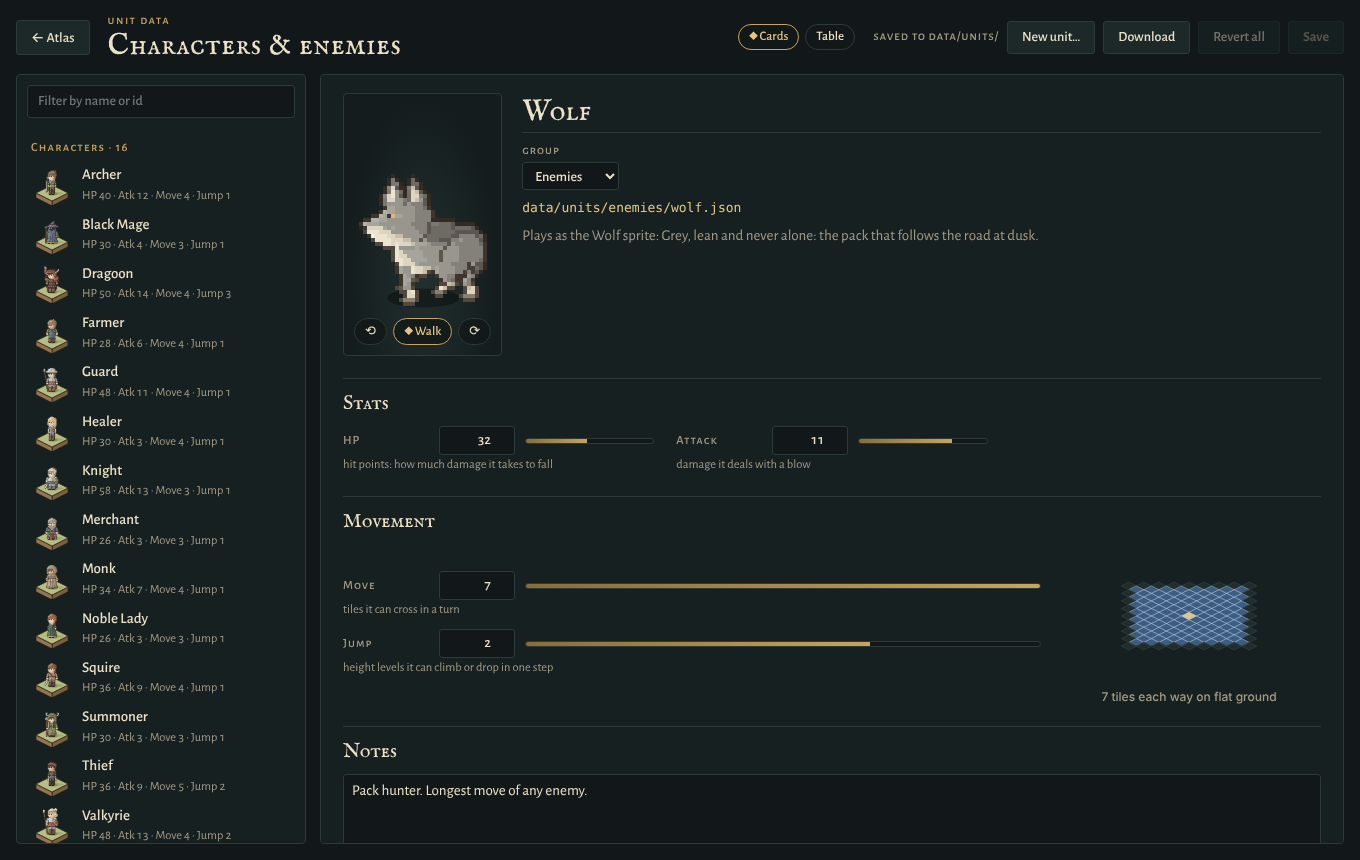
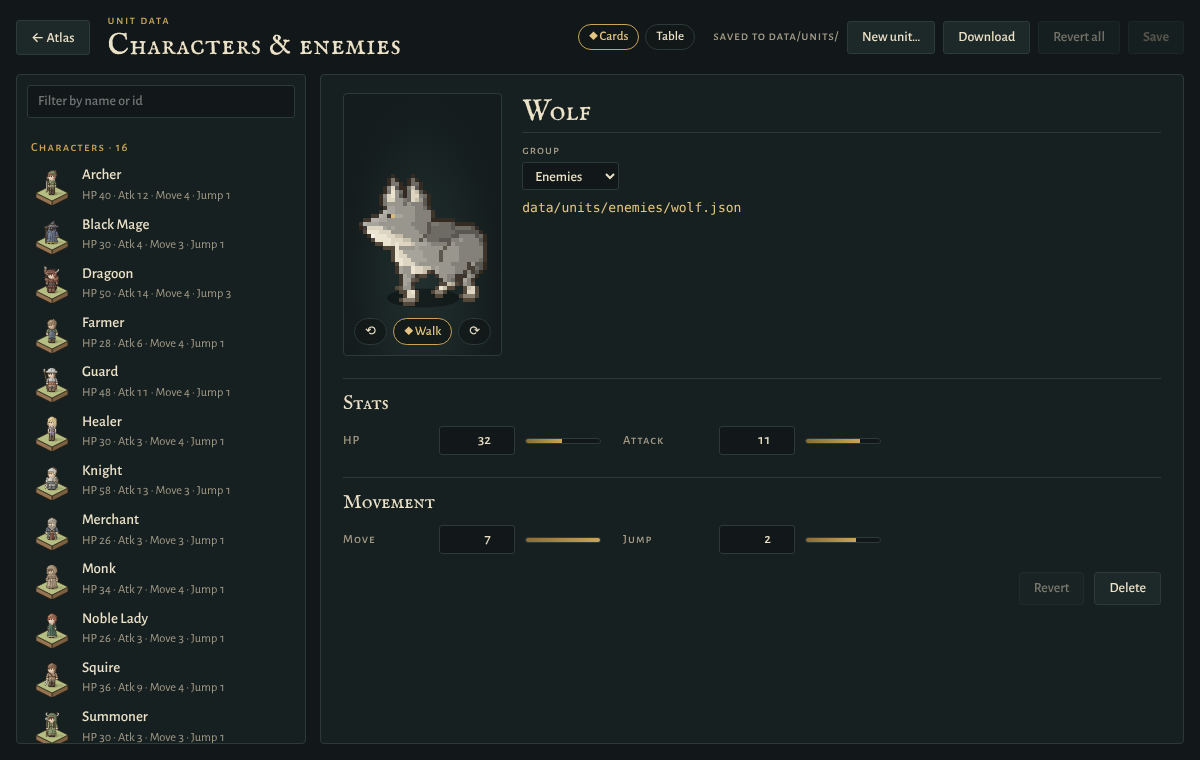
Unit data: drop notes and descriptive text for a simpler page
Claude-Session: https://claude.ai/code/session_015PvqJpEqEmM6sBoz5SncCe

diff --git a/src/units/main.js b/src/units/main.js
@@ -10,7 +10,7 @@ import { H as FH, W as FW } from '../characters/pixels.js';
 
 /* ================= the unit data page =================
    Every unit in data/units/ (src/data/units.js) to read and change: a list down the side, a card per unit with its
-   sprite walking, its HP and Attack, its movement and notes, and a table of everyone for balancing numbers side by
+   sprite walking, its HP, Attack, Move and Jump, and a table of everyone for balancing numbers side by
    side. Changes are drafts until saved. On the dev server Save writes the files through the Hexwright bridge
    (tools/vite-hexwright.js), and the tactical view in any open tab picks the new numbers up at once; a built copy
    of the site can read the units and download a unit's file, but not save. */
@@ -84,14 +84,13 @@ function renderList() {
 }
 
 /* ---------- the card ---------- */
-function field(sec, [k, label, lo, hi, , what], e) {
+function field(sec, [k, label, lo, hi], e) {
   const v = sec ? e.draft[sec][k] : e.draft[k], max = sec ? rosterMax(sec, k) : 0, saved = e.saved && (sec ? e.saved[sec]?.[k] : e.saved[k]);
   const changed = e.saved && saved !== v;
-  return `<label class="ub-stat${changed ? ' changed' : ''}" title="${esc(what)}">
+  return `<label class="ub-stat${changed ? ' changed' : ''}"${changed ? ` title="saved: ${saved}"` : ''}>
     <span class="ub-stat-name">${esc(label)}</span>
     <input type="number" inputmode="numeric" min="${lo}" max="${hi}" step="1" value="${v}" data-sec="${sec}" data-k="${k}" aria-label="${esc(label)}">
     ${sec ? `<span class="ub-meter" aria-hidden="true"><i style="width:${Math.round(100 * Math.min(1, v / max))}%"></i></span>` : ''}
-    <span class="ub-stat-what">${esc(what)}${changed ? ` <em>was ${saved}</em>` : ''}</span>
   </label>`;
 }
 function renderDetail() {
@@ -115,18 +114,15 @@ function renderDetail() {
           <label class="ub-field"><span>group</span><select id="group">${GROUPS.map(g => `<option value="${g}"${g === e.group ? ' selected' : ''}>${GROUP_LABEL[g]}</option>`).join('')}</select></label>
         </div>
         <p class="ub-file"><code>${esc(unitPath(e.group, d.id))}</code>${!e.saved ? ' <span class="ub-tag">new</span>' : isDirty(e) ? ' <span class="ub-tag">unsaved</span>' : ''}</p>
-        <p class="ub-dim">${sprite ? `Plays as the ${esc(sprite.name)} sprite${sprite.blurb ? `: ${esc(sprite.blurb)}` : '.'}` : `No sprite called “${esc(d.id)}” is in the roster or the character library, so nothing on a map uses these numbers yet.`}</p>
+        ${sprite ? '' : `<p class="ub-dim">No sprite called “${esc(d.id)}”.</p>`}
         ${errs.length ? `<p class="ub-errors">${errs.map(esc).join('<br>')}</p>` : ''}
       </div>
     </div>
     ${SECTIONS.map(sec => `
       <section class="ub-sec"><h2>${SECTION_LABEL[sec]}</h2>
-        ${sec === 'movement' ? `<div class="ub-move"><div class="ub-stats">${FIELDS[sec].map(f => field(sec, f, e)).join('')}</div><canvas id="reach" width="264" height="160" aria-label="Tiles reachable on flat ground"></canvas></div>`
-    : `<div class="ub-stats">${FIELDS[sec].map(f => field(sec, f, e)).join('')}</div>`}
+        <div class="ub-stats">${FIELDS[sec].map(f => field(sec, f, e)).join('')}</div>
       </section>`).join('')}
-    <section class="ub-sec"><h2>Notes</h2><textarea id="notes" rows="3" maxlength="2000" placeholder="Tactics, weaknesses, where it turns up…">${esc(d.notes)}</textarea></section>
     <div class="ub-card-actions">
-      <details class="ub-json"><summary>File contents</summary><pre id="json">${esc(unitText(d, e.group))}</pre></details>
       <span class="ub-spacer"></span>
       <button class="btn" id="revertOne"${isDirty(e) && e.saved ? '' : ' disabled'}>Revert</button>
       <button class="btn ub-danger" id="deleteOne">Delete</button>
@@ -137,7 +133,6 @@ function renderDetail() {
     commit(e);
   }));
   $('name').addEventListener('change', () => { e.draft.name = $('name').value; commit(e); });
-  $('notes').addEventListener('change', () => { e.draft.notes = $('notes').value; commit(e); });
   $('group').addEventListener('change', () => { e.group = $('group').value; commit(e); });
   $('faceL').addEventListener('click', () => { V.face = (V.face + 3) % 4; });
   $('faceR').addEventListener('click', () => { V.face = (V.face + 1) % 4; });
@@ -145,7 +140,6 @@ function renderDetail() {
   $('revertOne').addEventListener('click', () => revert(e));
   $('deleteOne').addEventListener('click', () => remove(V.sel));
   if (sprite) startPreview(sprite); else $('preview').classList.add('ub-blank');
-  if ($('reach')) drawReach($('reach'), d.movement.move);
 }
 /* clamp what was typed into range, then redraw everything that shows it */
 function commit(e) { e.draft = normalizeUnit(e.draft); renderAll(); }
@@ -168,23 +162,6 @@ function startPreview(c) {
   anim = requestAnimationFrame(step);
 }
 function stopPreview() { if (anim) cancelAnimationFrame(anim); anim = 0; }
-/* the tiles a move reaches on open flat ground: a diamond of tiles within that many steps, drawn as the map does */
-function drawReach(can, move) {
-  const g = can.getContext('2d'), R = Math.max(4, move + 1), tw = (can.width - 8) / (2 * R + 1), th = tw / 2, cx = can.width / 2, cy = (can.height - 16) / 2;
-  g.clearRect(0, 0, can.width, can.height);
-  const tile = (i, j, fill, stroke) => {
-    const x = cx + (i - j) * tw / 2, y = cy + (i + j) * th / 2;
-    g.beginPath(); g.moveTo(x, y - th / 2); g.lineTo(x + tw / 2, y); g.lineTo(x, y + th / 2); g.lineTo(x - tw / 2, y); g.closePath();
-    g.fillStyle = fill; g.fill(); g.strokeStyle = stroke; g.lineWidth = 1; g.stroke();
-  };
-  for (let j = -R; j <= R; j++) for (let i = -R; i <= R; i++) {
-    const d = Math.abs(i) + Math.abs(j); if (d > R) continue;
-    tile(i, j, d === 0 ? '#e4c684' : d <= move ? 'rgba(93,143,208,.55)' : 'rgba(44,58,58,.5)', d <= move ? '#cfe2ff55' : '#2c3a3a');
-  }
-  g.fillStyle = '#a39b86'; g.font = '500 12px "Alegreya Sans", system-ui, sans-serif'; g.textAlign = 'center';
-  g.fillText(`${move} tile${move === 1 ? '' : 's'} each way on flat ground`, can.width / 2, can.height - 3);
-}
-
 /* ---------- the table ---------- */
 const COLS = [['name', 'Name'], ['group', 'Group'], ...SECTIONS.flatMap(sec => FIELDS[sec].map(([k, l]) => [`${sec}.${k}`, l]))];
 const LIMITS = Object.fromEntries(SECTIONS.flatMap(sec => FIELDS[sec].map(([k, , lo, hi]) => [`${sec}.${k}`, [lo, hi]])));
@@ -207,7 +184,7 @@ function renderTable() {
     return `<td class="${changed.trim()}"><input type="number" inputmode="numeric" min="${lo}" max="${hi}" step="1" value="${v}" data-k="${k}" aria-label="${esc(k)} of ${esc(nameOf(e))}"></td>`;
   }).join('')}</tr>`).join('');
   box.innerHTML = `<div class="ub-table-scroll"><table><thead><tr>${head}</tr></thead><tbody>${body}</tbody></table></div>
-    <p class="ub-dim ub-table-hint">Click a column to sort, a name to open its card. Brass cells differ from the saved file.</p>`;
+`;
   box.querySelectorAll('[data-sort]').forEach(b => b.addEventListener('click', () => { const k = b.dataset.sort; V.sort = V.sort.key === k ? { key: k, dir: -V.sort.dir } : { key: k, dir: 1 }; renderTable(); }));
   box.querySelectorAll('[data-open]').forEach(b => b.addEventListener('click', () => { V.sel = b.dataset.open; setView('cards'); }));
   box.querySelectorAll('tbody input, tbody select').forEach(inp => inp.addEventListener('change', () => {
@@ -277,7 +254,7 @@ $('newDialog').addEventListener('close', () => {
   if ($('newDialog').returnValue !== 'ok') return;
   const id = $('newSprite').value, group = $('newGroup').value, from = E.get($('newFrom').value), c = spriteOf(id);
   const base = from ? structuredClone(from.draft) : structuredClone({ ...DEFAULT_UNIT, stats: { ...DEFAULT_UNIT.stats }, movement: { ...DEFAULT_UNIT.movement } });
-  const draft = { ...normalizeUnit({ ...base, id, name: c?.name || id, notes: from ? base.notes : '' }, group) };
+  const draft = normalizeUnit({ ...base, id, name: c?.name || id });
   E.set(id, { group, draft, saved: null, savedGroup: null }); V.sel = id; setView('cards');
 });
 

diff --git a/src/units/units.css b/src/units/units.css
@@ -19,7 +19,7 @@
 .ub-list,.ub-detail,.ub-table{min-height:0;background:var(--panel);border:1px solid var(--line);border-radius:4px}
 .ub-list{display:flex;flex-direction:column;overflow:hidden}
 .ub-search{margin:10px;background:var(--table);border:1px solid var(--line);color:var(--vellum);font:500 14px var(--ui);padding:7px 10px;border-radius:3px}
-.ub-search:focus-visible,.ub-detail input:focus-visible,.ub-detail select:focus-visible,.ub-detail textarea:focus-visible,.ub-table input:focus-visible,.ub-table select:focus-visible,.ub-row:focus-visible{outline:2px solid var(--brass-2);outline-offset:1px}
+.ub-search:focus-visible,.ub-detail input:focus-visible,.ub-detail select:focus-visible,.ub-table input:focus-visible,.ub-table select:focus-visible,.ub-row:focus-visible{outline:2px solid var(--brass-2);outline-offset:1px}
 .ub-rows{overflow:auto;padding:0 6px 10px}
 .ub-group{margin:12px 8px 4px;font:500 12.5px var(--ui-sc);letter-spacing:.1em;color:var(--brass)}
 .ub-row{display:flex;align-items:center;gap:10px;width:100%;text-align:left;background:none;border:1px solid transparent;border-radius:3px;padding:3px 8px;color:var(--vellum);cursor:pointer;font:inherit}
@@ -46,7 +46,7 @@
 .ub-meta{display:flex;flex-wrap:wrap;gap:12px 20px;align-items:end}
 .ub-field{display:flex;flex-direction:column;gap:3px}
 .ub-field span,.ub-stat-name{font:500 12.5px var(--ui-sc);letter-spacing:.08em;color:var(--muted)}
-.ub select,.ub input[type=number],.ub textarea{background:var(--table);border:1px solid var(--line);color:var(--vellum);font:500 14px var(--ui);padding:5px 8px;border-radius:3px}
+.ub select,.ub input[type=number]{background:var(--table);border:1px solid var(--line);color:var(--vellum);font:500 14px var(--ui);padding:5px 8px;border-radius:3px}
 .ub input[type=number]{font-variant-numeric:tabular-nums;text-align:right}
 .ub-file{margin:0;display:flex;flex-wrap:wrap;gap:8px;align-items:center}
 .ub-file code{font:13px ui-monospace,SFMono-Regular,Menlo,monospace;color:var(--brass-2);word-break:break-all}
@@ -56,21 +56,13 @@
 .ub-sec{margin-top:22px;border-top:1px solid var(--line);padding-top:12px}
 .ub-sec h2{margin:0 0 10px;font:400 20px var(--display);color:var(--vellum)}
 .ub-stats{display:grid;grid-template-columns:repeat(auto-fill,minmax(250px,1fr));gap:10px 22px}
-.ub-stat{display:grid;grid-template-columns:86px 76px minmax(0,1fr);grid-template-rows:auto auto;gap:2px 10px;align-items:center}
+.ub-stat{display:grid;grid-template-columns:86px 76px minmax(0,1fr);gap:10px;align-items:center}
 .ub-stat input{width:100%}
 .ub-meter{height:6px;background:var(--table);border:1px solid var(--line);border-radius:3px;overflow:hidden}
 .ub-meter i{display:block;height:100%;background:linear-gradient(90deg,#8a6d36,var(--brass))}
-.ub-stat-what{grid-column:1 / -1;font-size:12.5px;color:var(--muted);line-height:1.35}
-.ub-stat-what em{font-style:normal;color:var(--brass-2)}
 .ub-stat.changed input{border-color:var(--brass)}
-.ub-move{display:grid;grid-template-columns:minmax(0,1fr) auto;gap:16px;align-items:center}
-.ub-move .ub-stats{grid-template-columns:minmax(0,1fr)}
-#reach{display:block;max-width:100%;height:auto}
-.ub-detail textarea{width:100%;resize:vertical;font:400 15px/1.45 var(--ui)}
 .ub-card-actions{display:flex;flex-wrap:wrap;gap:10px;align-items:start;margin-top:18px}
 .ub-spacer{flex:1}
-.ub-json summary{cursor:pointer;color:var(--muted);font:500 13px var(--ui-sc);letter-spacing:.06em;padding:8px 0}
-.ub-json pre{margin:4px 0 0;max-height:280px;overflow:auto;background:var(--table);border:1px solid var(--line);border-radius:3px;padding:10px 12px;font:12.5px/1.45 ui-monospace,SFMono-Regular,Menlo,monospace;color:var(--vellum)}
 
 .ub-table{display:flex;flex-direction:column;overflow:hidden}
 .ub-table-scroll{overflow:auto;min-height:0;flex:1}
@@ -90,7 +82,6 @@
 .ub-table td.na{color:var(--line);text-align:center}
 .ub-open{background:none;border:0;color:var(--vellum);font:500 15px var(--ui);cursor:pointer;padding:4px 6px}
 .ub-open:hover{color:var(--brass-2);text-decoration:underline}
-.ub-table-hint{padding:8px 12px;font-size:13px;border-top:1px solid var(--line)}
 
 .ub-toast{position:fixed;left:50%;bottom:22px;transform:translateX(-50%);max-width:min(560px,calc(100vw - 32px));background:var(--panel-2);border:1px solid var(--brass);color:var(--vellum);padding:8px 14px;border-radius:3px;box-shadow:0 8px 24px rgba(0,0,0,.45);font-size:14px}
 .ub-toast.bad{border-color:var(--wax);color:#f0b2a8}
@@ -106,7 +97,6 @@
   .ub-list{max-height:240px}
   .ub-hero{grid-template-columns:minmax(0,1fr)}
   .ub-stage{justify-self:center}
-  .ub-move{grid-template-columns:minmax(0,1fr)}
   .ub-detail{padding:14px}
   .ub-table{max-height:75vh}
 }

diff --git a/src/data/units.js b/src/data/units.js
@@ -4,7 +4,7 @@
    in characters/ or enemies/, named by its id, which is the id of the sprite it plays as:
 
      data/units/enemies/goblin.json
-     { "id": "goblin", "name": "Goblin", "stats": { "hp": 22, "attack": 7 }, "movement": { "move": 5, "jump": 2 }, "notes": "" }
+     { "id": "goblin", "name": "Goblin", "stats": { "hp": 22, "attack": 7 }, "movement": { "move": 5, "jump": 2 } }
 
    Pure (no DOM, no Vite), so Node tools, tests and the browser share it. In the browser data/unit-files.js loads
    the files into the registry below; on the dev server the unit data page (units.html) writes them back through
@@ -12,21 +12,20 @@
    DEFAULT_UNIT. */
 const GROUPS = ['characters', 'enemies'];
 const GROUP_LABEL = { characters: 'Characters', enemies: 'Enemies' };
-/* every number a unit has, by section: [key, label, min, max, default, what it means] */
+/* every number a unit has, by section: [key, label, min, max, default] */
 const FIELDS = {
   stats: [
-    ['hp', 'HP', 1, 999, 30, 'hit points: how much damage it takes to fall'],
-    ['attack', 'Attack', 0, 99, 8, 'damage it deals with a blow']],
+    ['hp', 'HP', 1, 999, 30],
+    ['attack', 'Attack', 0, 99, 8]],
   movement: [
-    ['move', 'Move', 1, 12, 5, 'tiles it can cross in a turn'],
-    ['jump', 'Jump', 0, 6, 1, 'height levels it can climb or drop in one step']] };
+    ['move', 'Move', 1, 12, 5],
+    ['jump', 'Jump', 0, 6, 1]] };
 const SECTIONS = Object.keys(FIELDS);
 const ID_RE = /^[a-z0-9][a-z0-9-]{0,47}$/;
-const NOTES_MAX = 2000;
 
 const clampInt = (v, lo, hi, def) => { const n = Math.round(Number(v)); return Number.isFinite(n) ? Math.max(lo, Math.min(hi, n)) : def; };
 const defaults = sec => Object.fromEntries(FIELDS[sec].map(([k, , , , d]) => [k, d]));
-const DEFAULT_UNIT = Object.freeze({ id: '', name: '', stats: Object.freeze(defaults('stats')), movement: Object.freeze(defaults('movement')), notes: '' });
+const DEFAULT_UNIT = Object.freeze({ id: '', name: '', stats: Object.freeze(defaults('stats')), movement: Object.freeze(defaults('movement')) });
 
 /* a unit in canonical form: known fields only, in a fixed order, every number a whole number within its range
    and anything missing filled from the defaults. Characters and enemies have the same fields. */
@@ -37,7 +36,6 @@ function normalizeUnit(raw) {
     const src = J[sec] && typeof J[sec] === 'object' ? J[sec] : {};
     out[sec] = Object.fromEntries(FIELDS[sec].map(([k, , lo, hi, d]) => [k, clampInt(src[k], lo, hi, d)]));
   }
-  out.notes = String(J.notes ?? '').slice(0, NOTES_MAX);
   return out;
 }
 /* what is wrong with a raw unit, as sentences; empty when it is fine. Values out of range are reported here,
@@ -50,7 +48,6 @@ function validateUnit(raw, group = 'characters') {
   if (raw.name != null && typeof raw.name !== 'string') errs.push('name must be text');
   const check = (v, label, lo, hi) => { if (v == null) return; if (typeof v !== 'number' || !Number.isInteger(v)) errs.push(`${label} must be a whole number`); else if (v < lo || v > hi) errs.push(`${label} must be between ${lo} and ${hi}`); };
   for (const sec of SECTIONS) for (const [k, label, lo, hi] of FIELDS[sec]) check(raw[sec]?.[k], label, lo, hi);
-  if (raw.notes != null && (typeof raw.notes !== 'string' || raw.notes.length > NOTES_MAX)) errs.push(`notes must be text of at most ${NOTES_MAX} characters`);
   return errs;
 }
 /* the file a unit lives in, relative to the project root, and its text: two-space JSON with a final newline */

diff --git a/units.html b/units.html
@@ -38,7 +38,6 @@
 <dialog class="ub-dialog" id="newDialog">
   <form method="dialog" id="newForm">
     <h2>New unit</h2>
-    <p class="ub-dim">A unit gives a sprite its numbers. These sprites have none yet.</p>
     <label class="ub-field"><span>sprite</span><select id="newSprite" required></select></label>
     <label class="ub-field"><span>group</span><select id="newGroup"><option value="characters">Characters</option><option value="enemies">Enemies</option></select></label>
     <label class="ub-field"><span>start from</span><select id="newFrom"></select></label>

diff --git a/src/data/units.test.js b/src/data/units.test.js
@@ -25,7 +25,7 @@ test('the unit files are valid and in canonical form', () => {
     assert.deepEqual(validateUnit(f.raw, f.group), [], f.file);
     assert.equal(f.file, `data/units/${f.group}/${f.unit.id}.json`, 'named by its id');
     assert.equal(readFileSync(join(ROOT, f.file), 'utf8'), unitText(f.raw), `${f.file} is as a save would write it`);
-    assert.deepEqual(Object.keys(f.raw), ['id', 'name', 'stats', 'movement', 'notes']);
+    assert.deepEqual(Object.keys(f.raw), ['id', 'name', 'stats', 'movement']);
   }
 });
 

diff --git a/README.md b/README.md
@@ -125,7 +125,7 @@ data/units/
 ```
 
 A file is named by the unit's id, which is the id of the sprite it plays as, and holds its name, HP, Attack,
-movement (Move: tiles a turn; Jump: height levels a step can climb or drop) and notes. `src/data/units.js`
+movement (Move: tiles a turn; Jump: height levels a step can climb or drop). `src/data/units.js`
 defines the fields, their ranges and defaults, and normalizes and validates a unit; a sprite with no file, such
 as a custom character from the maker, plays with the defaults. The tactical view moves units by their Move and
 Jump and shows their HP and Attack; adding a field means adding a line to `FIELDS` there.
@@ -133,8 +133,8 @@ Jump and shows their HP and Attack; adding a field means adding a line to `FIELD
 **Unit data** in the atlas header opens `units.html`, an editor for these files:
 
 - **Cards:** the list of units down the side, filterable, and a card for the picked one: its sprite walking (turn
-  it with ⟲ ⟳), name and group, HP and Attack with a bar against the strongest unit, movement with the tiles
-  its Move reaches on flat ground, notes and the file's contents. Changed values show what they were.
+  it with ⟲ ⟳), name and group, and HP, Attack, Move and Jump, each with a bar against the strongest unit.
+  Changed values are outlined in brass.
 - **Table:** everyone in one sortable grid for balancing numbers side by side, every cell editable.
 - **Saving:** changes are drafts until **Save** (`Ctrl+S`), which on the dev server (`npm run dev`) writes the
   files through the Hexwright bridge: `PUT` and `DELETE /__hexwright/units/<group>/<id>`, `GET /__hexwright/units`.
